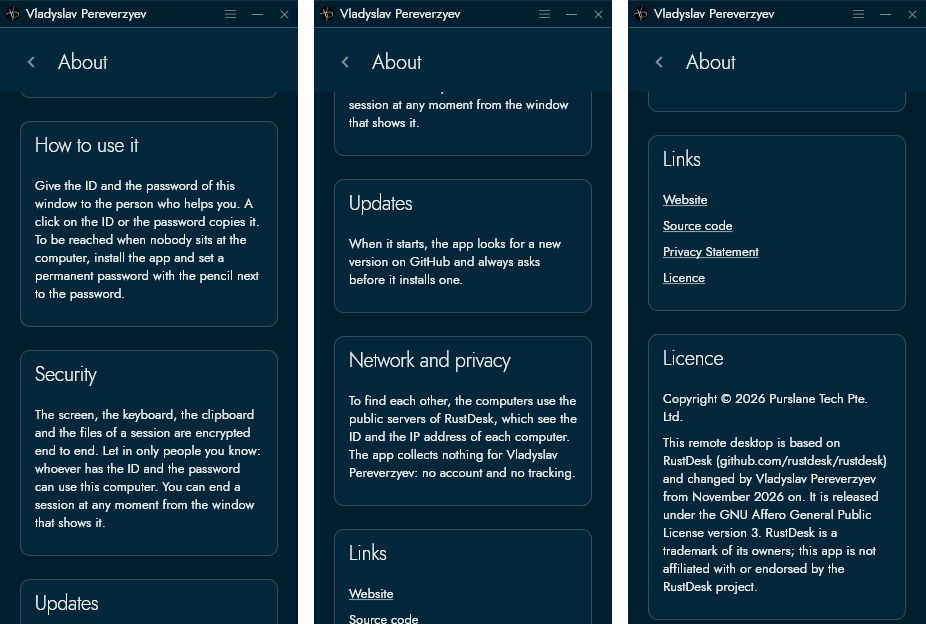
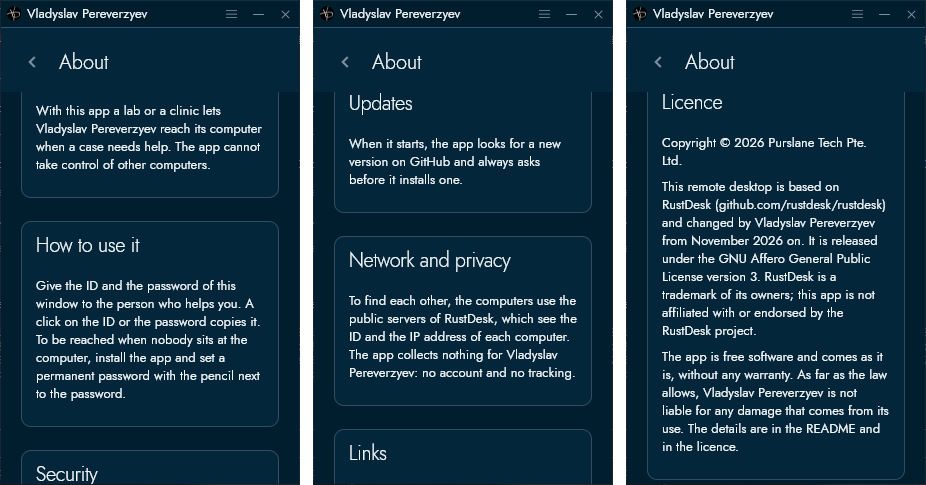
Update the README screenshots and text for v1.0.6
docs/images: main-window.png, security.png and about.png taken from the installed v1.0.6 in English, with a made-up ID and one-time password. The About image starts below the card with the ID and the fingerprint.

README: the Install button shows only while the app runs from the download, a new point describes the window that asks to let a session in, a note says the Security and Network pages are locked once the app is installed, the update window has Later and Update without the old card in the main window, and the About caption lists what the image shows.

diff --git a/README.md b/README.md
@@ -36,12 +36,21 @@ The download needs no installation: it runs as it is. It can be renamed, for exa
   computer: give them to the person who helps you. One click on the ID or the password copies
   it.
 - To reach a computer when nobody sits in front of it, install the app on it (the Install button
-  at the bottom) and set a permanent password with the pencil next to the password.
+  at the bottom of the window, shown while the app runs from the download) and set a permanent
+  password with the pencil next to the password.
+- When somebody connects, a window of the same size shows their ID and what the session may do:
+  keyboard and mouse, clipboard, sound, files and so on. Accept lets them in, Cancel sends them
+  away. During the session the same window shows how long it has been running, a chat and the
+  Disconnect button, which ends it at any moment.
 
 The window always keeps the same small size. The menu button at the top opens the settings in
 the same window, as a list of pages with a back arrow.
 
 ![The Security page: permissions, password, two-factor authentication and ID](docs/images/security.png)
+
+Once the app is installed, the Security and Network pages are locked, so that only somebody who
+may change the computer can change them: the blue button at the top of the page asks Windows
+for the permission first.
 
 Allow a connection only to people you know. Somebody who has the ID and the password can see the
 screen, use the mouse and open the files of that computer.
@@ -53,9 +62,8 @@ of this repository:
 
 1. When it starts, the app asks GitHub for the latest release and compares its number with its
    own.
-2. When a newer release is out, a window asks whether to update now or later. A card in the
-   main window stays, with a link to what changed, for those who chose later.
-
+2. When a newer release is out, a window says so, with the new version number and two buttons:
+   Later and Update.
 3. Nothing is downloaded or installed until the user presses Update: there is no automatic
    update. The app then downloads the new `VladyslavPereverzyev.exe` with a progress bar, installs
    it over the old one once no session is open and starts again. Windows may ask for
@@ -117,7 +125,7 @@ This section explains how the app works. It is not legal advice.
 The About page of the app says the same in short, with the version and the links to the source
 code and the licence.
 
-![The About page: how to use it, updates, network and privacy, links and licence](docs/images/about.png)
+![The About page: what it is for, how to use it, updates, network and privacy, links and licence](docs/images/about.png)
 
 ## What is in it
 
